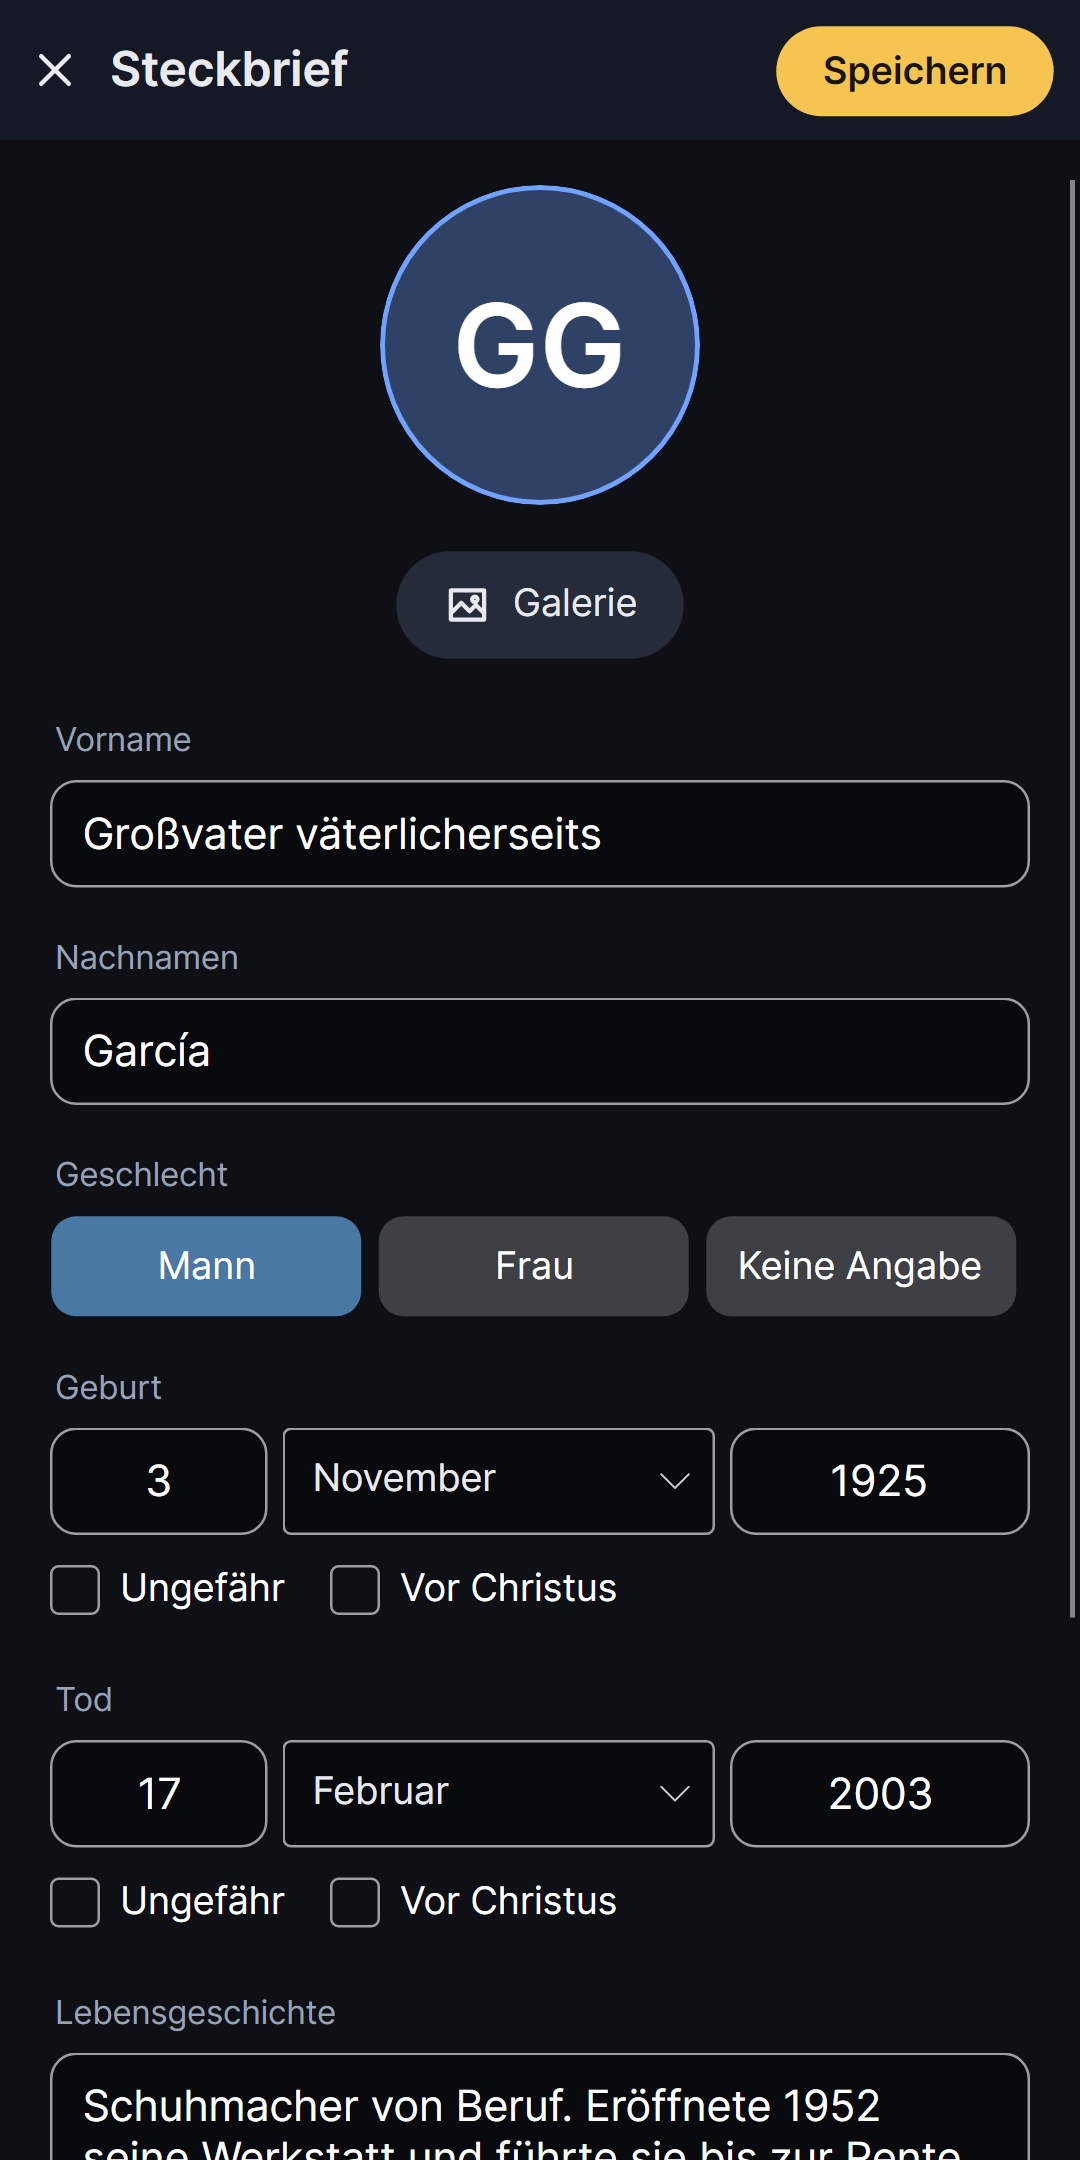
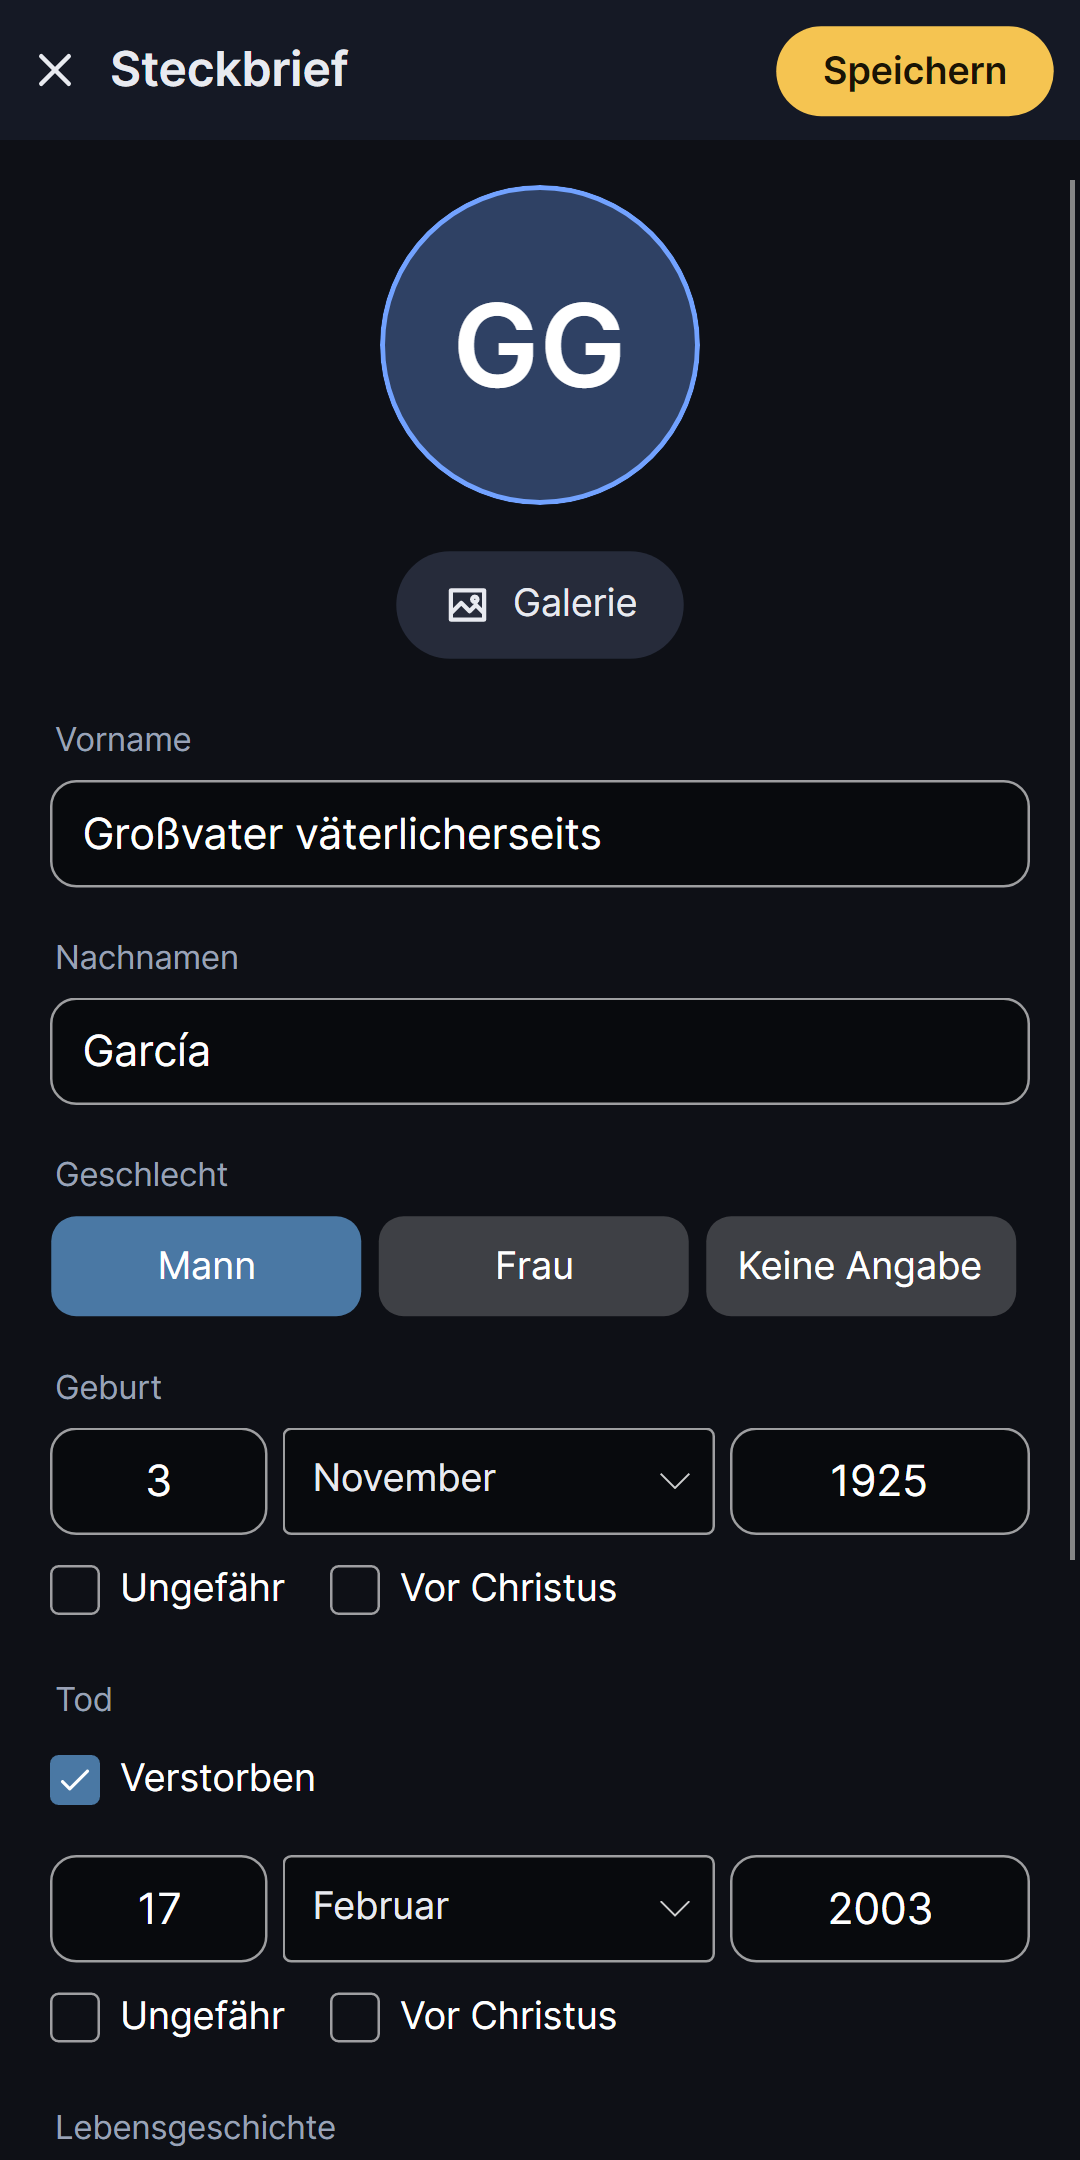
«Ha fallecido» aunque no se sepa cuándo
En la ficha, la defunción empieza por la casilla «Ha fallecido»; la fecha se pide solo
entonces. Sin fecha, la tarjeta lo dice con «1850 – ?» (o «†» si tampoco hay nacimiento).
En GEDCOM se escribe y se lee como «1 DEAT Y», y también cuenta un entierro o una
defunción sin fecha que se entienda; al fusionar, si el otro árbol lo sabe, se completa.

diff --git a/src/ArbolGenealogico.Movil/Vistas/EditorPersona.cs b/src/ArbolGenealogico.Movil/Vistas/EditorPersona.cs
@@ -133,7 +133,13 @@ public static class EditorPersona
         var (filaNacimiento, leerNacimiento) = CampoFecha(p.Nacimiento);
         var (filaDefuncion, leerDefuncion) = CampoFecha(p.Defuncion);
         pila.Children.Add(Etiqueta(T("Nacimiento"))); pila.Children.Add(filaNacimiento);
-        pila.Children.Add(Etiqueta(T("Defunción"))); pila.Children.Add(filaDefuncion);
+        // la defunción: primero si ha fallecido (aunque no se sepa cuándo); la fecha, solo entonces
+        pila.Children.Add(Etiqueta(T("Defunción")));
+        var fallecido = new CheckBox { Content = T("Ha fallecido"), IsChecked = p.HaFallecido };
+        pila.Children.Add(fallecido);
+        pila.Children.Add(filaDefuncion);
+        filaDefuncion.IsVisible = p.HaFallecido;
+        fallecido.IsCheckedChanged += (_, _) => filaDefuncion.IsVisible = fallecido.IsChecked == true;
 
         // historia
         pila.Children.Add(Etiqueta(T("Su historia")));
@@ -196,7 +202,8 @@ public static class EditorPersona
         bool LeerFechas(out Fecha? nac, out Fecha? def, out string? error)
         {
             (nac, var e1) = leerNacimiento();
-            (def, var e2) = leerDefuncion();
+            // sin marcar «Ha fallecido», la fecha de defunción (que no se ve) no cuenta
+            (def, var e2) = fallecido.IsChecked == true ? leerDefuncion() : (null, null);
             var errores = new List<string>();
             if (e1 != null) errores.Add(T("Nacimiento") + ": " + e1);
             if (e2 != null) errores.Add(T("Defunción") + ": " + e2);
@@ -217,6 +224,7 @@ public static class EditorPersona
             p.Historia = historia.Text?.Trim() ?? "";
             p.Nacimiento = nac;
             p.Defuncion = def;
+            p.Fallecido = fallecido.IsChecked == true && def == null;
             cerrar(new ResultadoEditor(p));
         }
         guardar.Click += (_, _) => Guardar();
@@ -225,7 +233,8 @@ public static class EditorPersona
             (nombre.Text?.Trim() ?? "") != original.Nombre.Trim() || (apellidos.Text?.Trim() ?? "") != original.Apellidos.Trim()
             || sexo != original.Sexo || (historia.Text?.Trim() ?? "") != original.Historia.Trim()
             || p.Foto != original.Foto || p.ArbolEnlazado != original.ArbolEnlazado
-            || !LeerFechas(out var nac, out var def, out _) || nac != original.Nacimiento || def != original.Defuncion;
+            || !LeerFechas(out var nac, out var def, out _) || nac != original.Nacimiento || def != original.Defuncion
+            || (fallecido.IsChecked == true) != original.HaFallecido;
         salir = async () =>
         {
             if (!HayCambios()) { cerrar(new ResultadoEditor(null)); return; }

diff --git a/tests/ArbolGenealogico.Tests/FechaTests.cs b/tests/ArbolGenealogico.Tests/FechaTests.cs
@@ -155,6 +155,45 @@ public class FechaTests
     }
 
     [Fact]
+    public void Ha_fallecido_aunque_no_se_sepa_cuando()
+    {
+        var p = new Persona { Nacimiento = new Fecha(1850), Fallecido = true };
+        Assert.True(p.HaFallecido);
+        Assert.Equal("1850 – ?", Fechas.Anios(p));
+        Assert.Equal("* 1850   †", Fechas.Vida(p));
+        Assert.Equal("†", Fechas.Anios(new Persona { Fallecido = true }));
+        Assert.True(new Persona { Defuncion = new Fecha(1900) }.HaFallecido);
+        Assert.False(new Persona().HaFallecido);
+
+        // en el archivo, solo si está marcado
+        var a = Familias.Tipica();
+        Assert.DoesNotContain("fallecido", ArbolJson.Serializar(a));
+        a.Personas[0].Fallecido = true;
+        Assert.True(ArbolJson.Deserializar(ArbolJson.Serializar(a), out _).Personas[0].Fallecido);
+
+        // en GEDCOM: «1 DEAT Y», y al leer también lo dicen el entierro o una defunción sin fecha que se entienda
+        Assert.Contains("1 DEAT Y\r\n", Gedcom.ExportarTexto(a));
+        var ged = "0 HEAD\r\n0 @I1@ INDI\r\n1 NAME Ana /Lund/\r\n1 DEAT Y\r\n0 @I2@ INDI\r\n1 NAME Per /Lund/\r\n1 BURI\r\n2 PLAC Lund\r\n" +
+                  "0 @I3@ INDI\r\n1 NAME Eva /Lund/\r\n1 DEAT\r\n2 DATE 1901\r\n0 @I4@ INDI\r\n1 NAME Bo /Lund/\r\n0 TRLR\r\n";
+        var b = Gedcom.Importar(new UTF8Encoding(false).GetBytes(ged), "x.ged", out _);
+        Persona P(string n) => b.Personas.Single(x => x.Nombre == n);
+        Assert.True(P("Ana").Fallecido);
+        Assert.Equal("", P("Ana").Historia);             // sin la frase «Murió.»: ya está como dato
+        Assert.True(P("Per").Fallecido);
+        Assert.False(P("Eva").Fallecido);                // tiene fecha: con eso basta
+        Assert.True(P("Eva").HaFallecido);
+        Assert.False(P("Bo").HaFallecido);
+
+        // al fusionar, si en el otro árbol saben que ha fallecido, se completa
+        var mio = Familias.Tipica();
+        var otro = mio.Clonar();
+        otro.Personas[1].Fallecido = true;
+        var inf = Fusion.Fusionar(mio, otro);
+        Assert.True(mio.Personas[1].Fallecido);
+        Assert.Equal(1, inf.Completadas);
+    }
+
+    [Fact]
     public void Las_tarjetas_pueden_ir_sin_los_anos()
     {
         var f = FormaTarjeta.Leer("vertical foto sin-fechas");

diff --git a/src/ArbolGenealogico.Core/Io/Gedcom.cs b/src/ArbolGenealogico.Core/Io/Gedcom.cs
@@ -80,6 +80,7 @@ public static class Gedcom
             L(1, "SEX " + (p.Sexo switch { Sexo.Hombre => "M", Sexo.Mujer => "F", _ => "U" }));
             if (p.Nacimiento is { } nac) { L(1, "BIRT"); L(2, "DATE " + FechaGedcom(nac)); }
             if (p.Defuncion is { } def) { L(1, "DEAT"); L(2, "DATE " + FechaGedcom(def)); }
+            else if (p.Fallecido) L(1, "DEAT Y");
             if (!string.IsNullOrWhiteSpace(p.Historia)) Texto(sb, 1, "NOTE", p.Historia.Trim());
             // el id del árbol: si el archivo vuelve a este programa, las personas se reconocen (y se puede fusionar)
             if (Arbol.EsIdGlobal(p.Id)) L(1, "_UID " + p.Id.ToUpperInvariant());
@@ -372,7 +373,7 @@ public static class Gedcom
                     if (Lugar(e) is { Length: > 0 } l) frases.Add(T(verbo, p.Sexo) + " " + T("en {0}", l) + ".");
                 }
                 else if (Suceso(e) is { } detalle) frases.Add(T(verbo, p.Sexo) + detalle + ".");
-                else if (tag == "DEAT" && e.Valor.Trim().ToUpperInvariant() == "Y") frases.Add(T(verbo, p.Sexo) + ".");
+                // «1 DEAT Y» (falleció, sin fecha ni lugar) no lleva frase: queda marcado que ha fallecido
                 primero = false;
             }
         }
@@ -411,6 +412,8 @@ public static class Gedcom
         var vida = frases;
         frases = final;
         ConFecha("DEAT", "Murió", f => p.Defuncion = f);
+        // con defunción, entierro o incineración (aunque no digan cuándo), ha fallecido
+        if (n.Uno("DEAT") != null || n.Uno("BURI") != null || n.Uno("CREM") != null) p.Fallecido = p.Defuncion == null;
         Evento("BURI", "Fue enterrado");
         Evento("CREM", "Fue incinerado");
         return (vida, final);

diff --git a/src/ArbolGenealogico.Core/Idiomas/Fechas.cs b/src/ArbolGenealogico.Core/Idiomas/Fechas.cs
@@ -56,20 +56,21 @@ public static class Fechas
 
     /// <summary>
     /// Los años de una persona para su tarjeta: «1920 – 1998»; con solo uno, «* 1950» o «† 1890» (los signos de nacimiento
-    /// y defunción de la genealogía, iguales en todos los idiomas). Vacío si no tiene ninguna fecha.
+    /// y defunción de la genealogía, iguales en todos los idiomas). Si ha fallecido sin saberse cuándo, «1850 – ?» o, sin
+    /// ninguna fecha, «†». Vacío si no hay nada que decir.
     /// </summary>
     public static string Anios(Persona p) => (p.Nacimiento, p.Defuncion) switch
     {
         ({ } n, { } d) => Corta(n) + " – " + Corta(d),
-        ({ } n, null) => "* " + Corta(n),
+        ({ } n, null) => p.Fallecido ? Corta(n) + " – ?" : "* " + Corta(n),
         (null, { } d) => "† " + Corta(d),
-        _ => "",
+        _ => p.Fallecido ? "†" : "",
     };
 
-    /// <summary>Las dos fechas enteras, para la ficha: «* 3 de marzo de 1920   † 1998».</summary>
+    /// <summary>Las dos fechas enteras, para la ficha: «* 3 de marzo de 1920   † 1998» («†» solo, si no se sabe cuándo).</summary>
     public static string Vida(Persona p) => string.Join("   ", new[]
     {
         p.Nacimiento is { } n ? "* " + Larga(n) : null,
-        p.Defuncion is { } d ? "† " + Larga(d) : null,
+        p.Defuncion is { } d ? "† " + Larga(d) : p.Fallecido ? "†" : null,
     }.Where(x => x != null));
 }

diff --git a/src/ArbolGenealogico.Core/Model/Persona.cs b/src/ArbolGenealogico.Core/Model/Persona.cs
@@ -23,6 +23,14 @@ public sealed class Persona
     [JsonPropertyName("defuncion"), JsonConverter(typeof(FechaJson)), JsonIgnore(Condition = JsonIgnoreCondition.WhenWritingNull)]
     public Fecha? Defuncion { get; set; }
 
+    /// <summary>Ha fallecido aunque no se sepa cuándo (con fecha de defunción, ya se sabe; ver <see cref="HaFallecido"/>).</summary>
+    [JsonPropertyName("fallecido"), JsonIgnore(Condition = JsonIgnoreCondition.WhenWritingDefault)]
+    public bool Fallecido { get; set; }
+
+    /// <summary>Se sabe que ha fallecido: está marcado o tiene fecha de defunción.</summary>
+    [JsonIgnore]
+    public bool HaFallecido => Fallecido || Defuncion != null;
+
     [JsonPropertyName("historia")] public string Historia { get; set; } = "";
 
     /// <summary>Ruta (relativa al JSON) del árbol propio de esta persona (opcional).</summary>

diff --git a/src/ArbolGenealogico.Core/Model/Fusion.cs b/src/ArbolGenealogico.Core/Model/Fusion.cs
@@ -95,6 +95,8 @@ public static class Fusion
             }
             pm.Nacimiento = UnirFecha(pm.Nacimiento, ps.Nacimiento);
             pm.Defuncion = UnirFecha(pm.Defuncion, ps.Defuncion);
+            // que ha fallecido: si en el otro lo saben, se completa (no marcado solo quiere decir que no se sabe)
+            if (ps.HaFallecido && !pm.HaFallecido) { pm.Fallecido = true; completada = true; }
             if (ps.Sexo != Sexo.Desconocido && ps.Sexo != pm.Sexo)
             {
                 if (pm.Sexo == Sexo.Desconocido) { pm.Sexo = ps.Sexo; completada = true; }

diff --git a/src/ArbolGenealogico.Movil/Vistas/PantallaArbol.cs b/src/ArbolGenealogico.Movil/Vistas/PantallaArbol.cs
@@ -235,7 +235,7 @@ public sealed class PantallaArbol : Grid, IPantalla
                 var q = a.Obtener(id);
                 q.Nombre = editada.Nombre; q.Apellidos = editada.Apellidos; q.Sexo = editada.Sexo;
                 q.Historia = editada.Historia; q.Foto = editada.Foto; q.ArbolEnlazado = editada.ArbolEnlazado;
-                q.Nacimiento = editada.Nacimiento; q.Defuncion = editada.Defuncion;
+                q.Nacimiento = editada.Nacimiento; q.Defuncion = editada.Defuncion; q.Fallecido = editada.Fallecido;
             });
         }
         else if (nueva)

diff --git a/src/ArbolGenealogico.Core/Presentacion/FormaTarjeta.cs b/src/ArbolGenealogico.Core/Presentacion/FormaTarjeta.cs
@@ -70,6 +70,6 @@ public readonly record struct FormaTarjeta(bool Vertical, bool Foto, bool SinTar
     {
         SoloNombre = SinTarjeta
             && (SinApellidos || !a.Personas.Any(p => !string.IsNullOrWhiteSpace(p.Nombre) && !string.IsNullOrWhiteSpace(p.Apellidos)))
-            && (SinFechas || !a.Personas.Any(p => p.Nacimiento != null || p.Defuncion != null)),
+            && (SinFechas || !a.Personas.Any(p => p.Nacimiento != null || p.HaFallecido)),
     };
 }

diff --git a/src/ArbolGenealogico.Core/Idiomas/Frances.cs b/src/ArbolGenealogico.Core/Idiomas/Frances.cs
@@ -281,6 +281,7 @@ public static partial class Textos
         ["sin familiares"] = "sans famille",
 
         // ---------- fechas ----------
+        ["Ha fallecido"] = "Personne décédée",
         ["Nacimiento"] = "Naissance",
         ["Defunción"] = "Décès",
         ["Día"] = "Jour",

diff --git a/src/ArbolGenealogico.Core/Idiomas/Portugues.cs b/src/ArbolGenealogico.Core/Idiomas/Portugues.cs
@@ -281,6 +281,7 @@ public static partial class Textos
         ["sin familiares"] = "sem parentes",
 
         // ---------- fechas ----------
+        ["Ha fallecido"] = "Pessoa falecida",
         ["Nacimiento"] = "Nascimento",
         ["Defunción"] = "Falecimento",
         ["Día"] = "Dia",

diff --git a/src/ArbolGenealogico.Core/Idiomas/Italiano.cs b/src/ArbolGenealogico.Core/Idiomas/Italiano.cs
@@ -281,6 +281,7 @@ public static partial class Textos
         ["sin familiares"] = "senza parenti",
 
         // ---------- fechas ----------
+        ["Ha fallecido"] = "Persona deceduta",
         ["Nacimiento"] = "Nascita",
         ["Defunción"] = "Morte",
         ["Día"] = "Giorno",

diff --git a/src/ArbolGenealogico.Core/Idiomas/Aleman.cs b/src/ArbolGenealogico.Core/Idiomas/Aleman.cs
@@ -281,6 +281,7 @@ public static partial class Textos
         ["sin familiares"] = "keine Verwandten",
 
         // ---------- fechas ----------
+        ["Ha fallecido"] = "Verstorben",
         ["Nacimiento"] = "Geburt",
         ["Defunción"] = "Tod",
         ["Día"] = "Tag",
